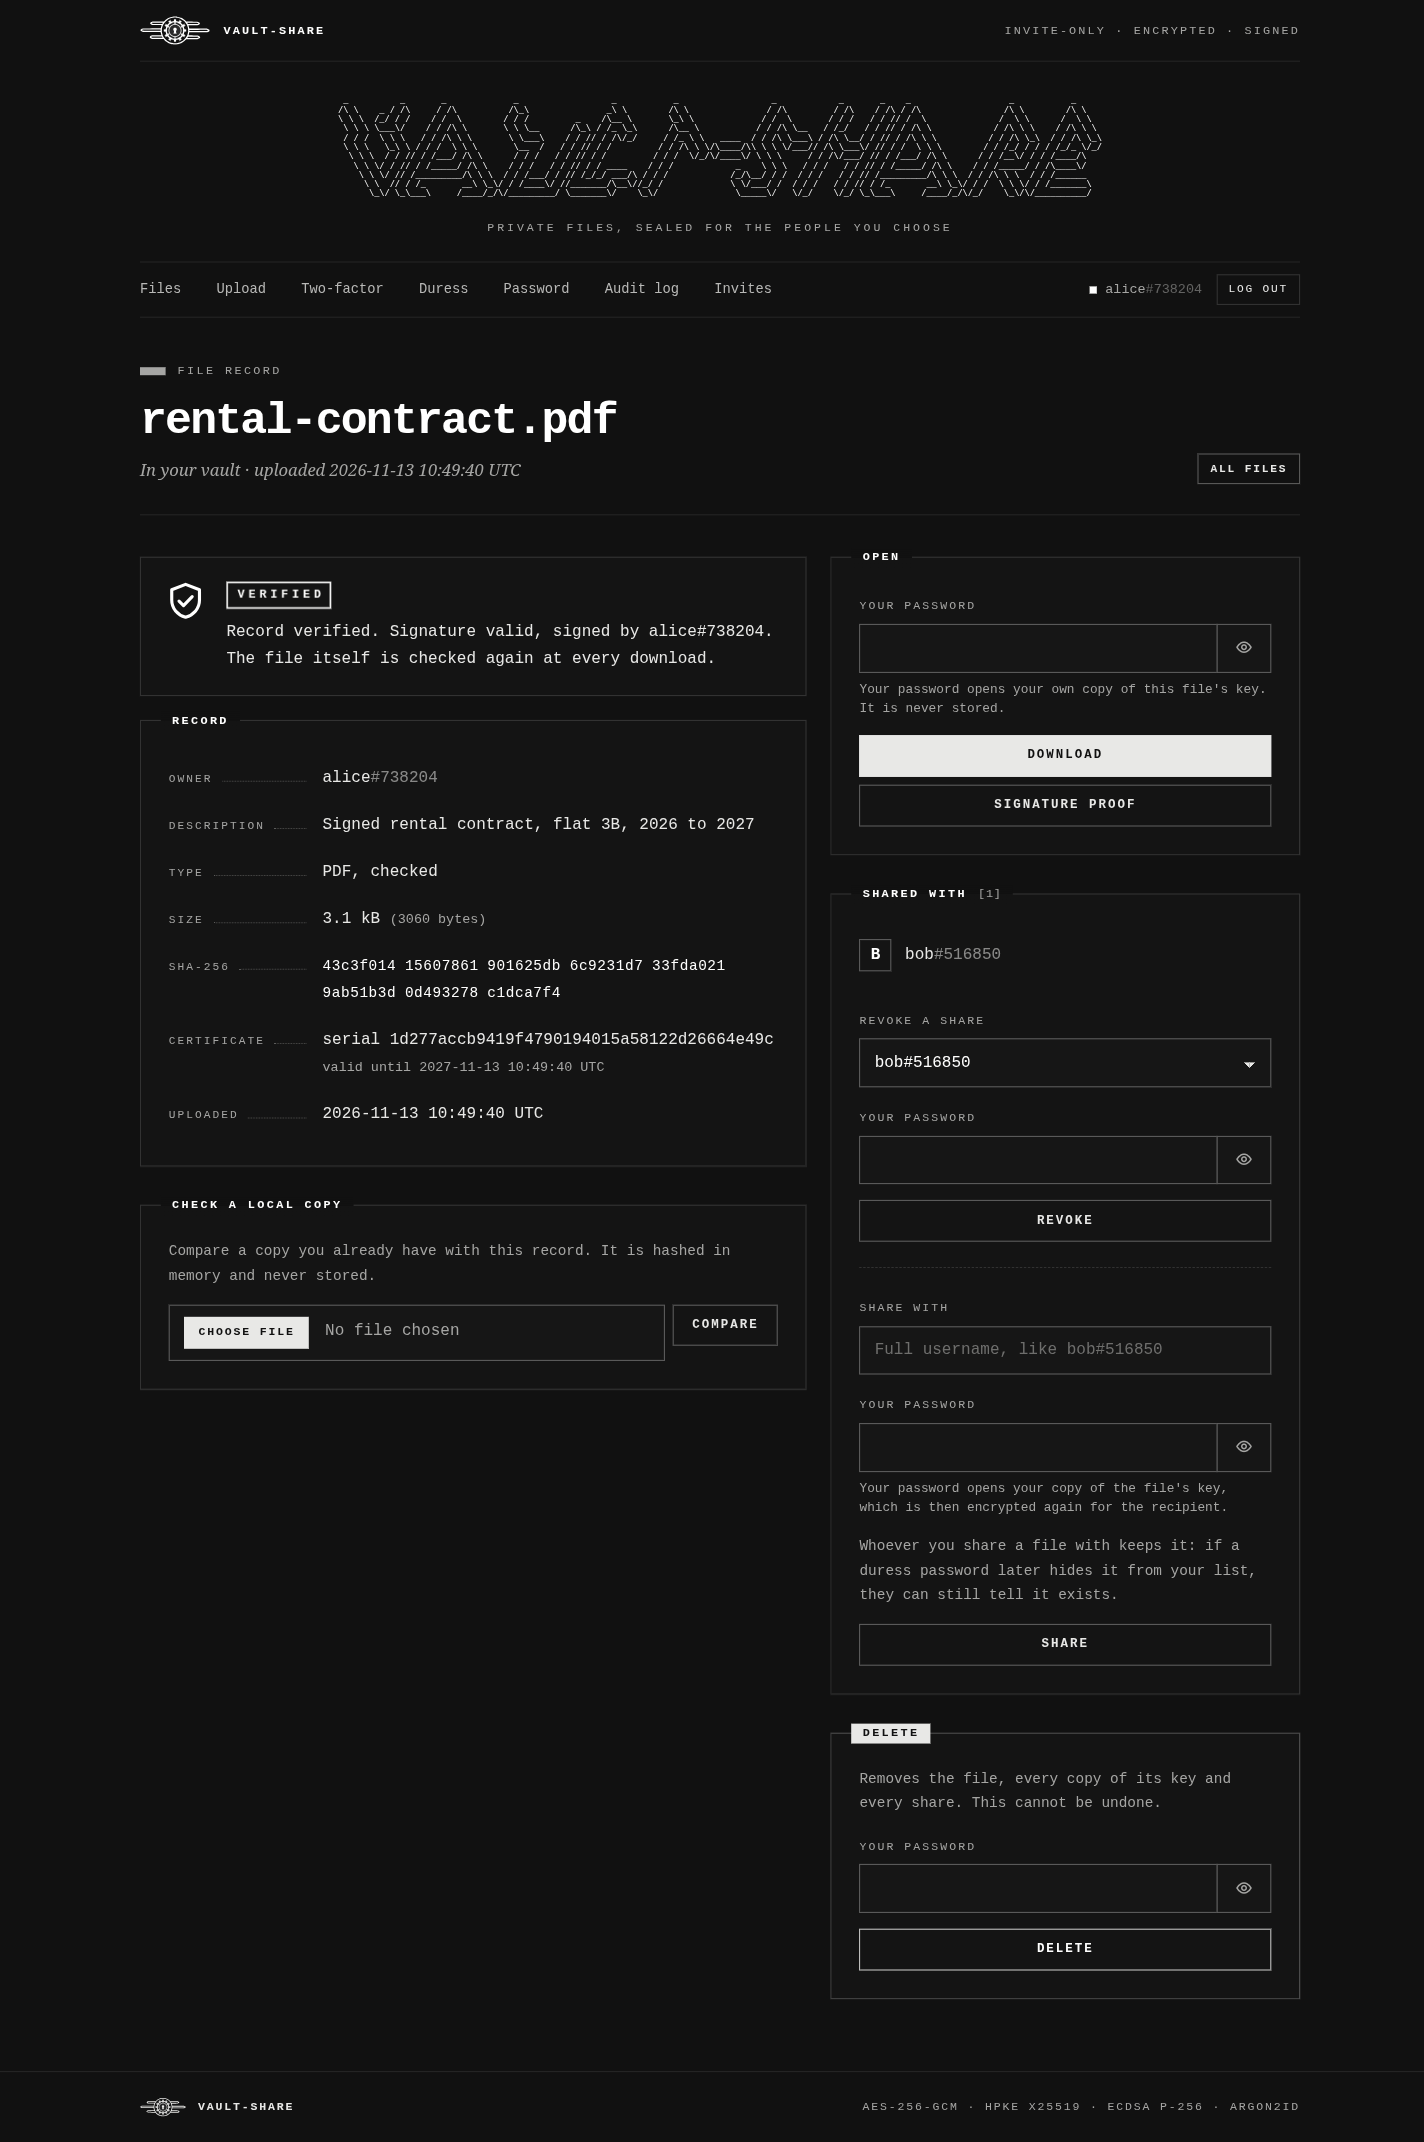
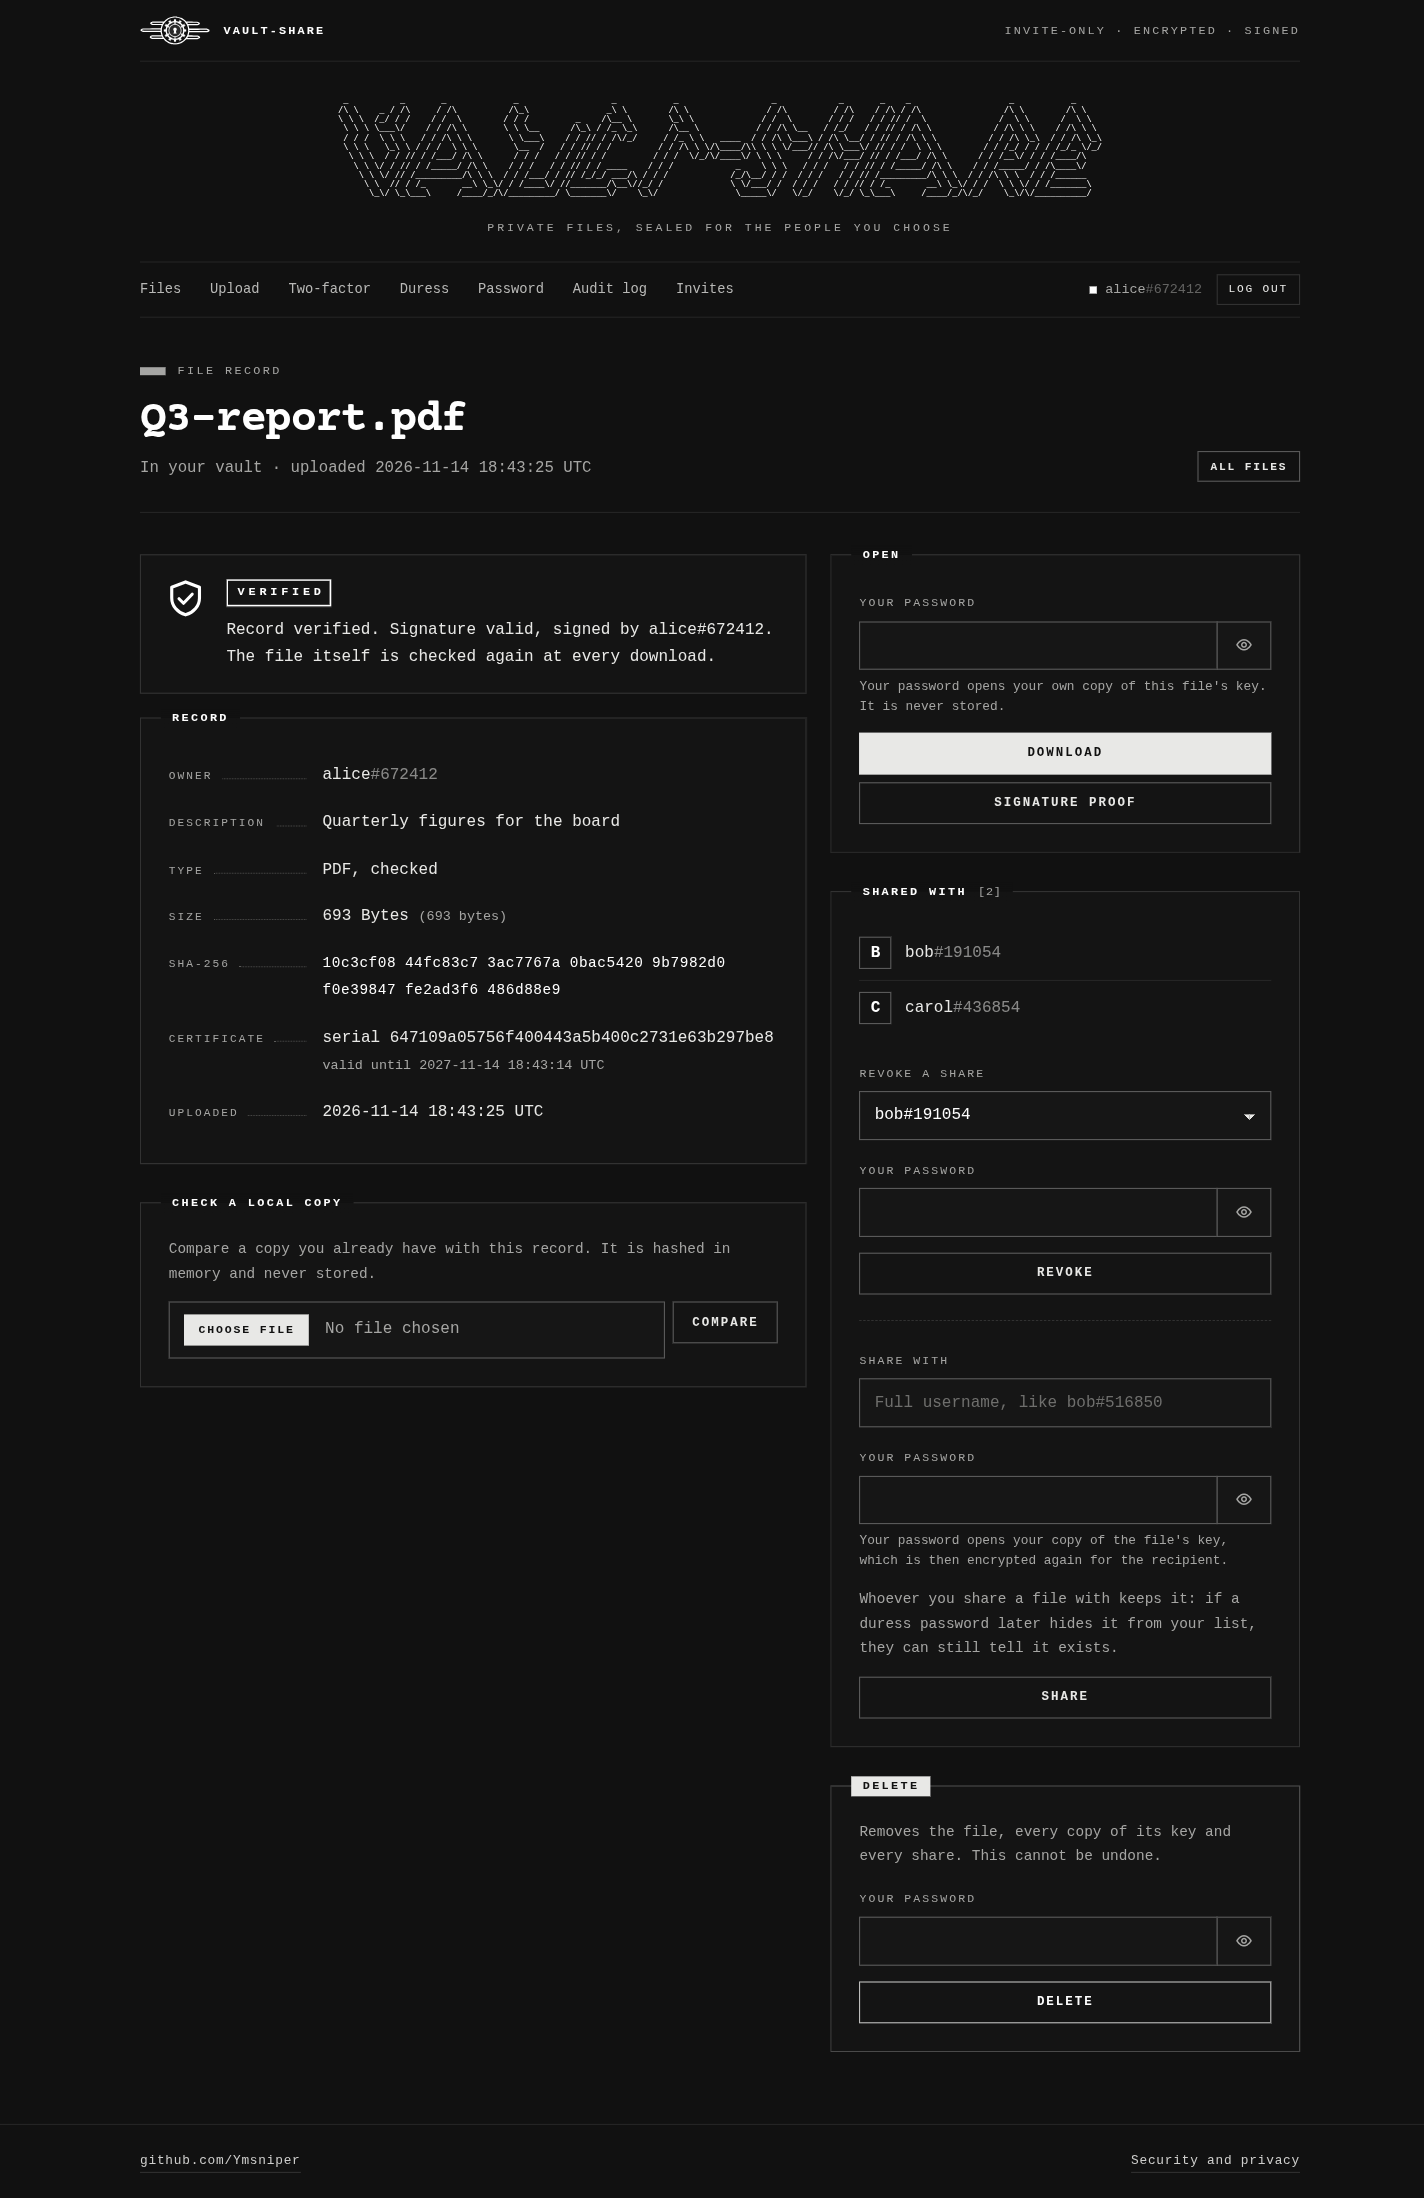
Retake the screenshots in the new look and add the security page

diff --git a/README.md b/README.md
@@ -68,6 +68,8 @@ cookies it sets, and what its operator can do. Anyone can read it, logged in
 or not, and it stays up while the service is paused, since it needs neither
 the database nor the master key.
 
+![The security and privacy page](docs/screenshots/web-security.png)
+
 Uploading asks for your password again: it unlocks your private key to sign
 the file. Each file's record carries an HMAC over all of its fields, from
 the owner and the hash to the name, the description and the signature, so a
